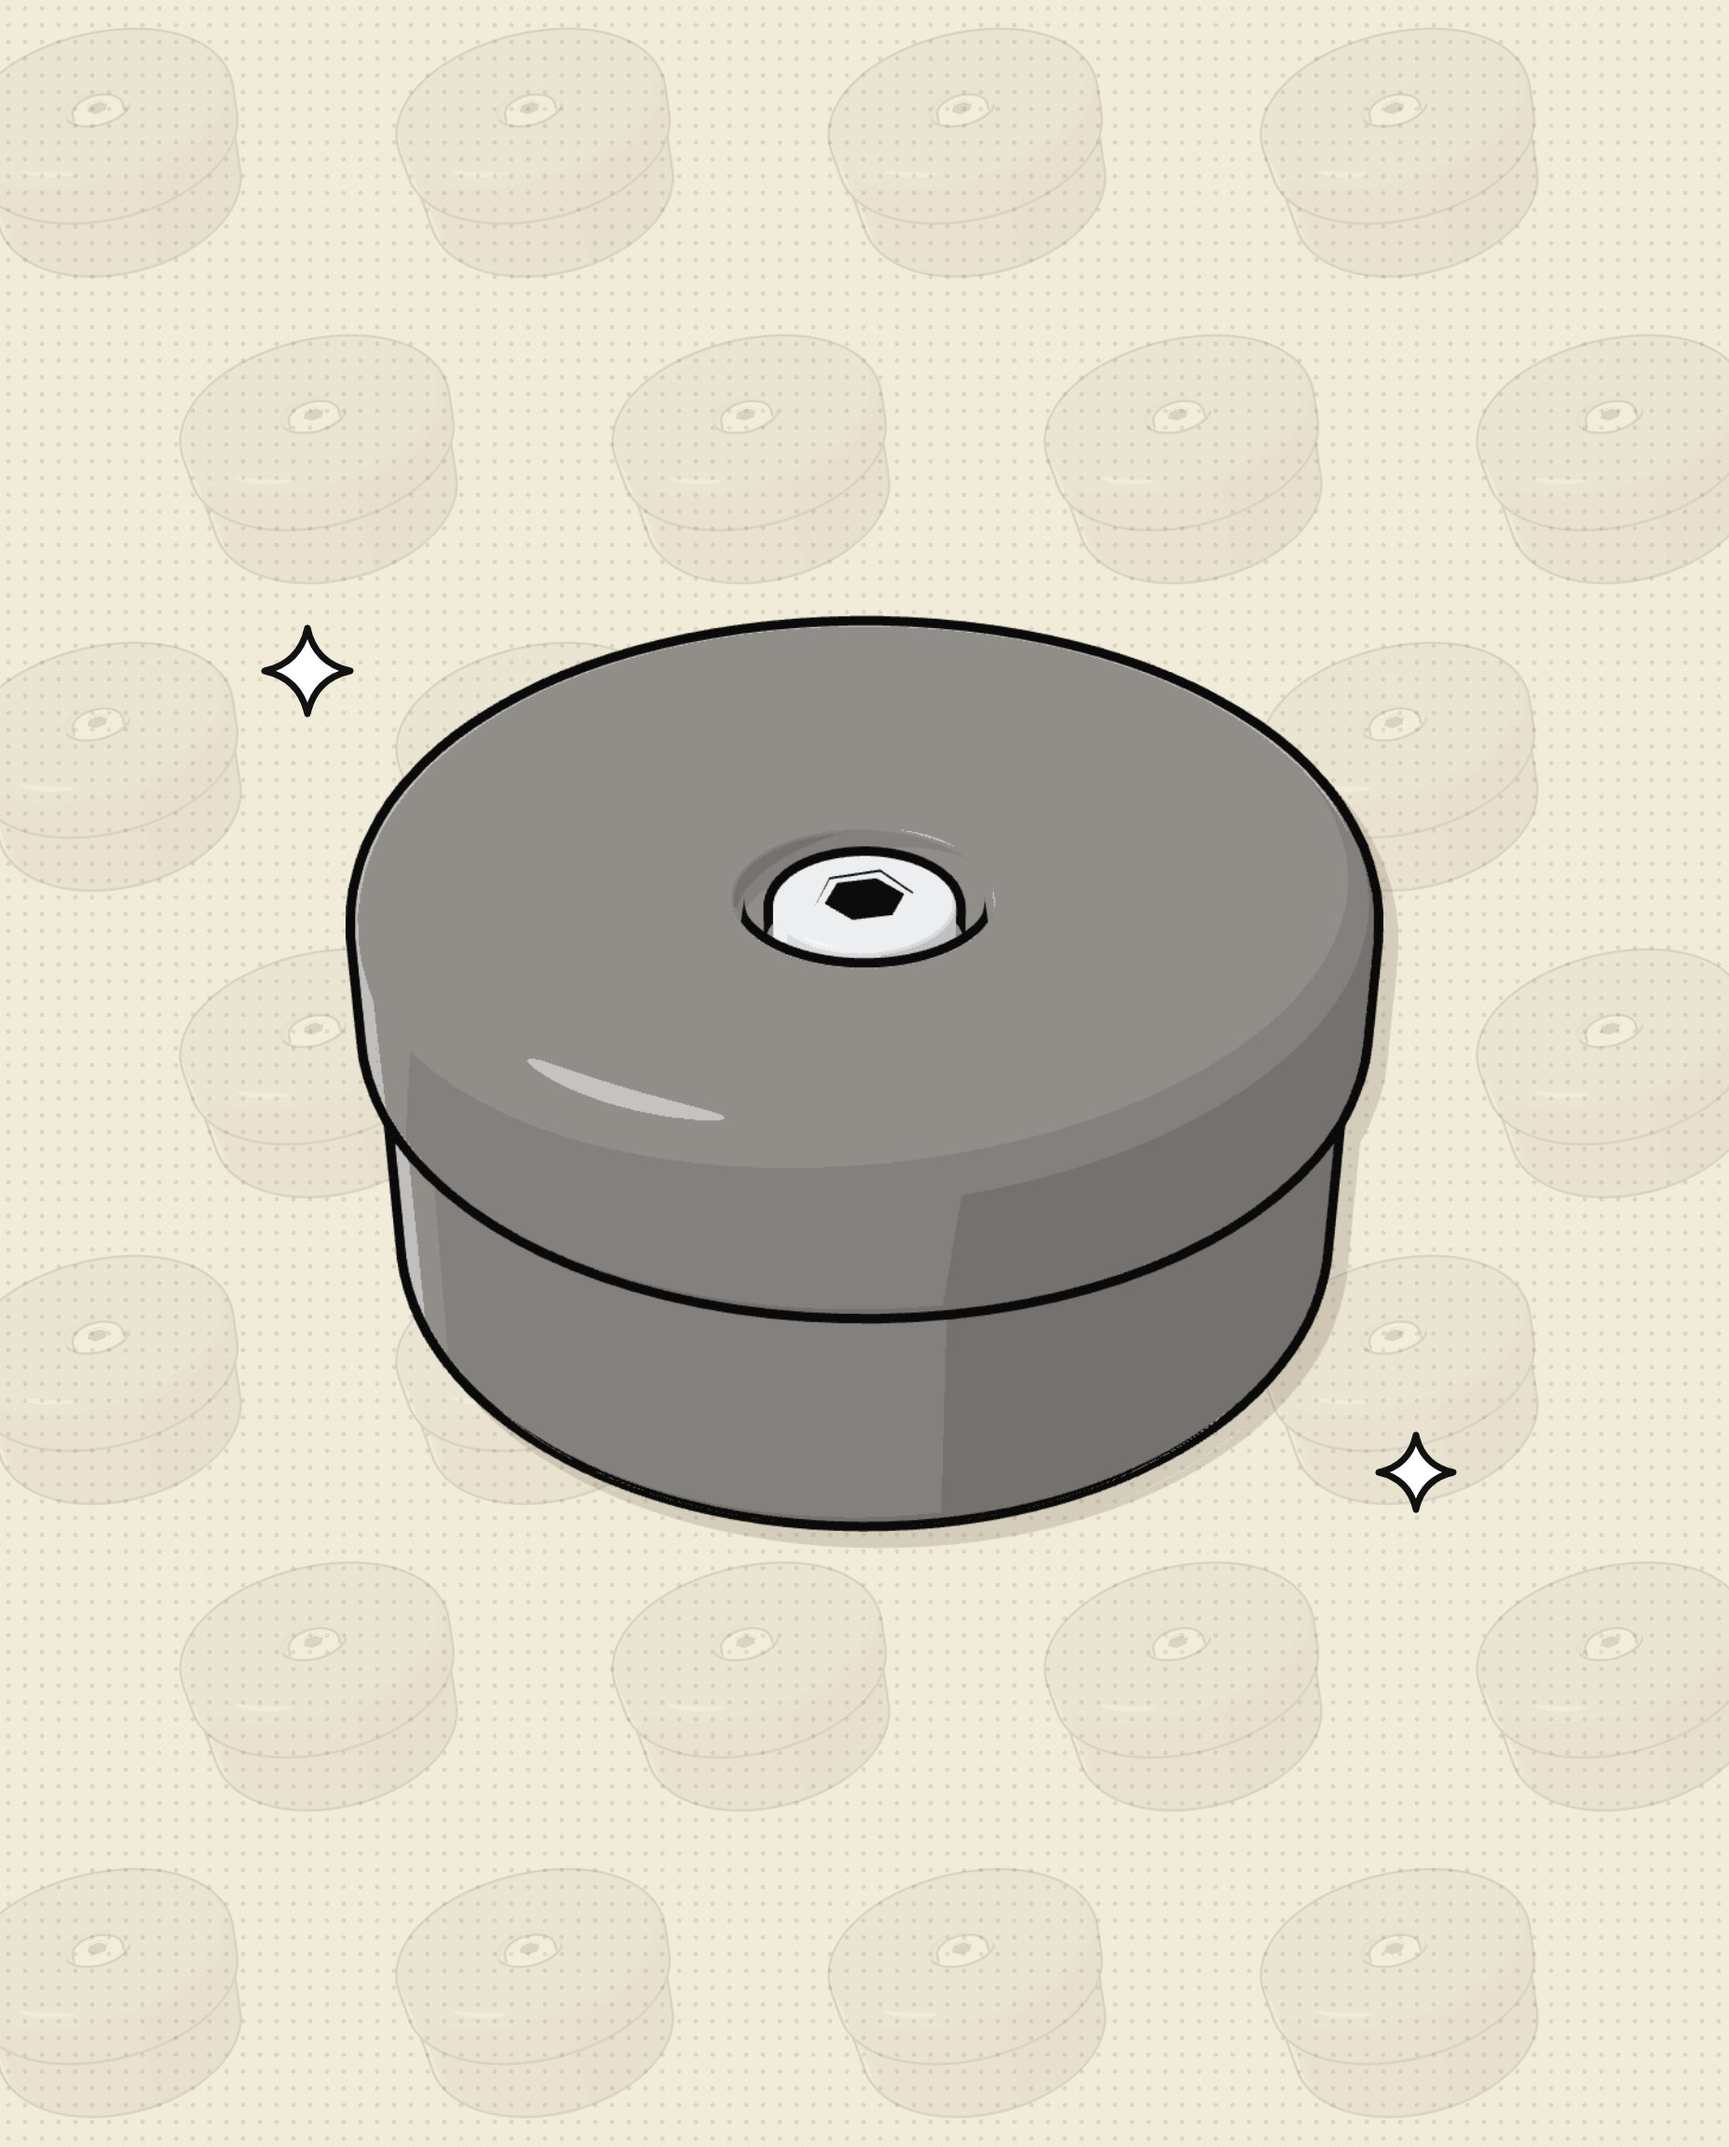
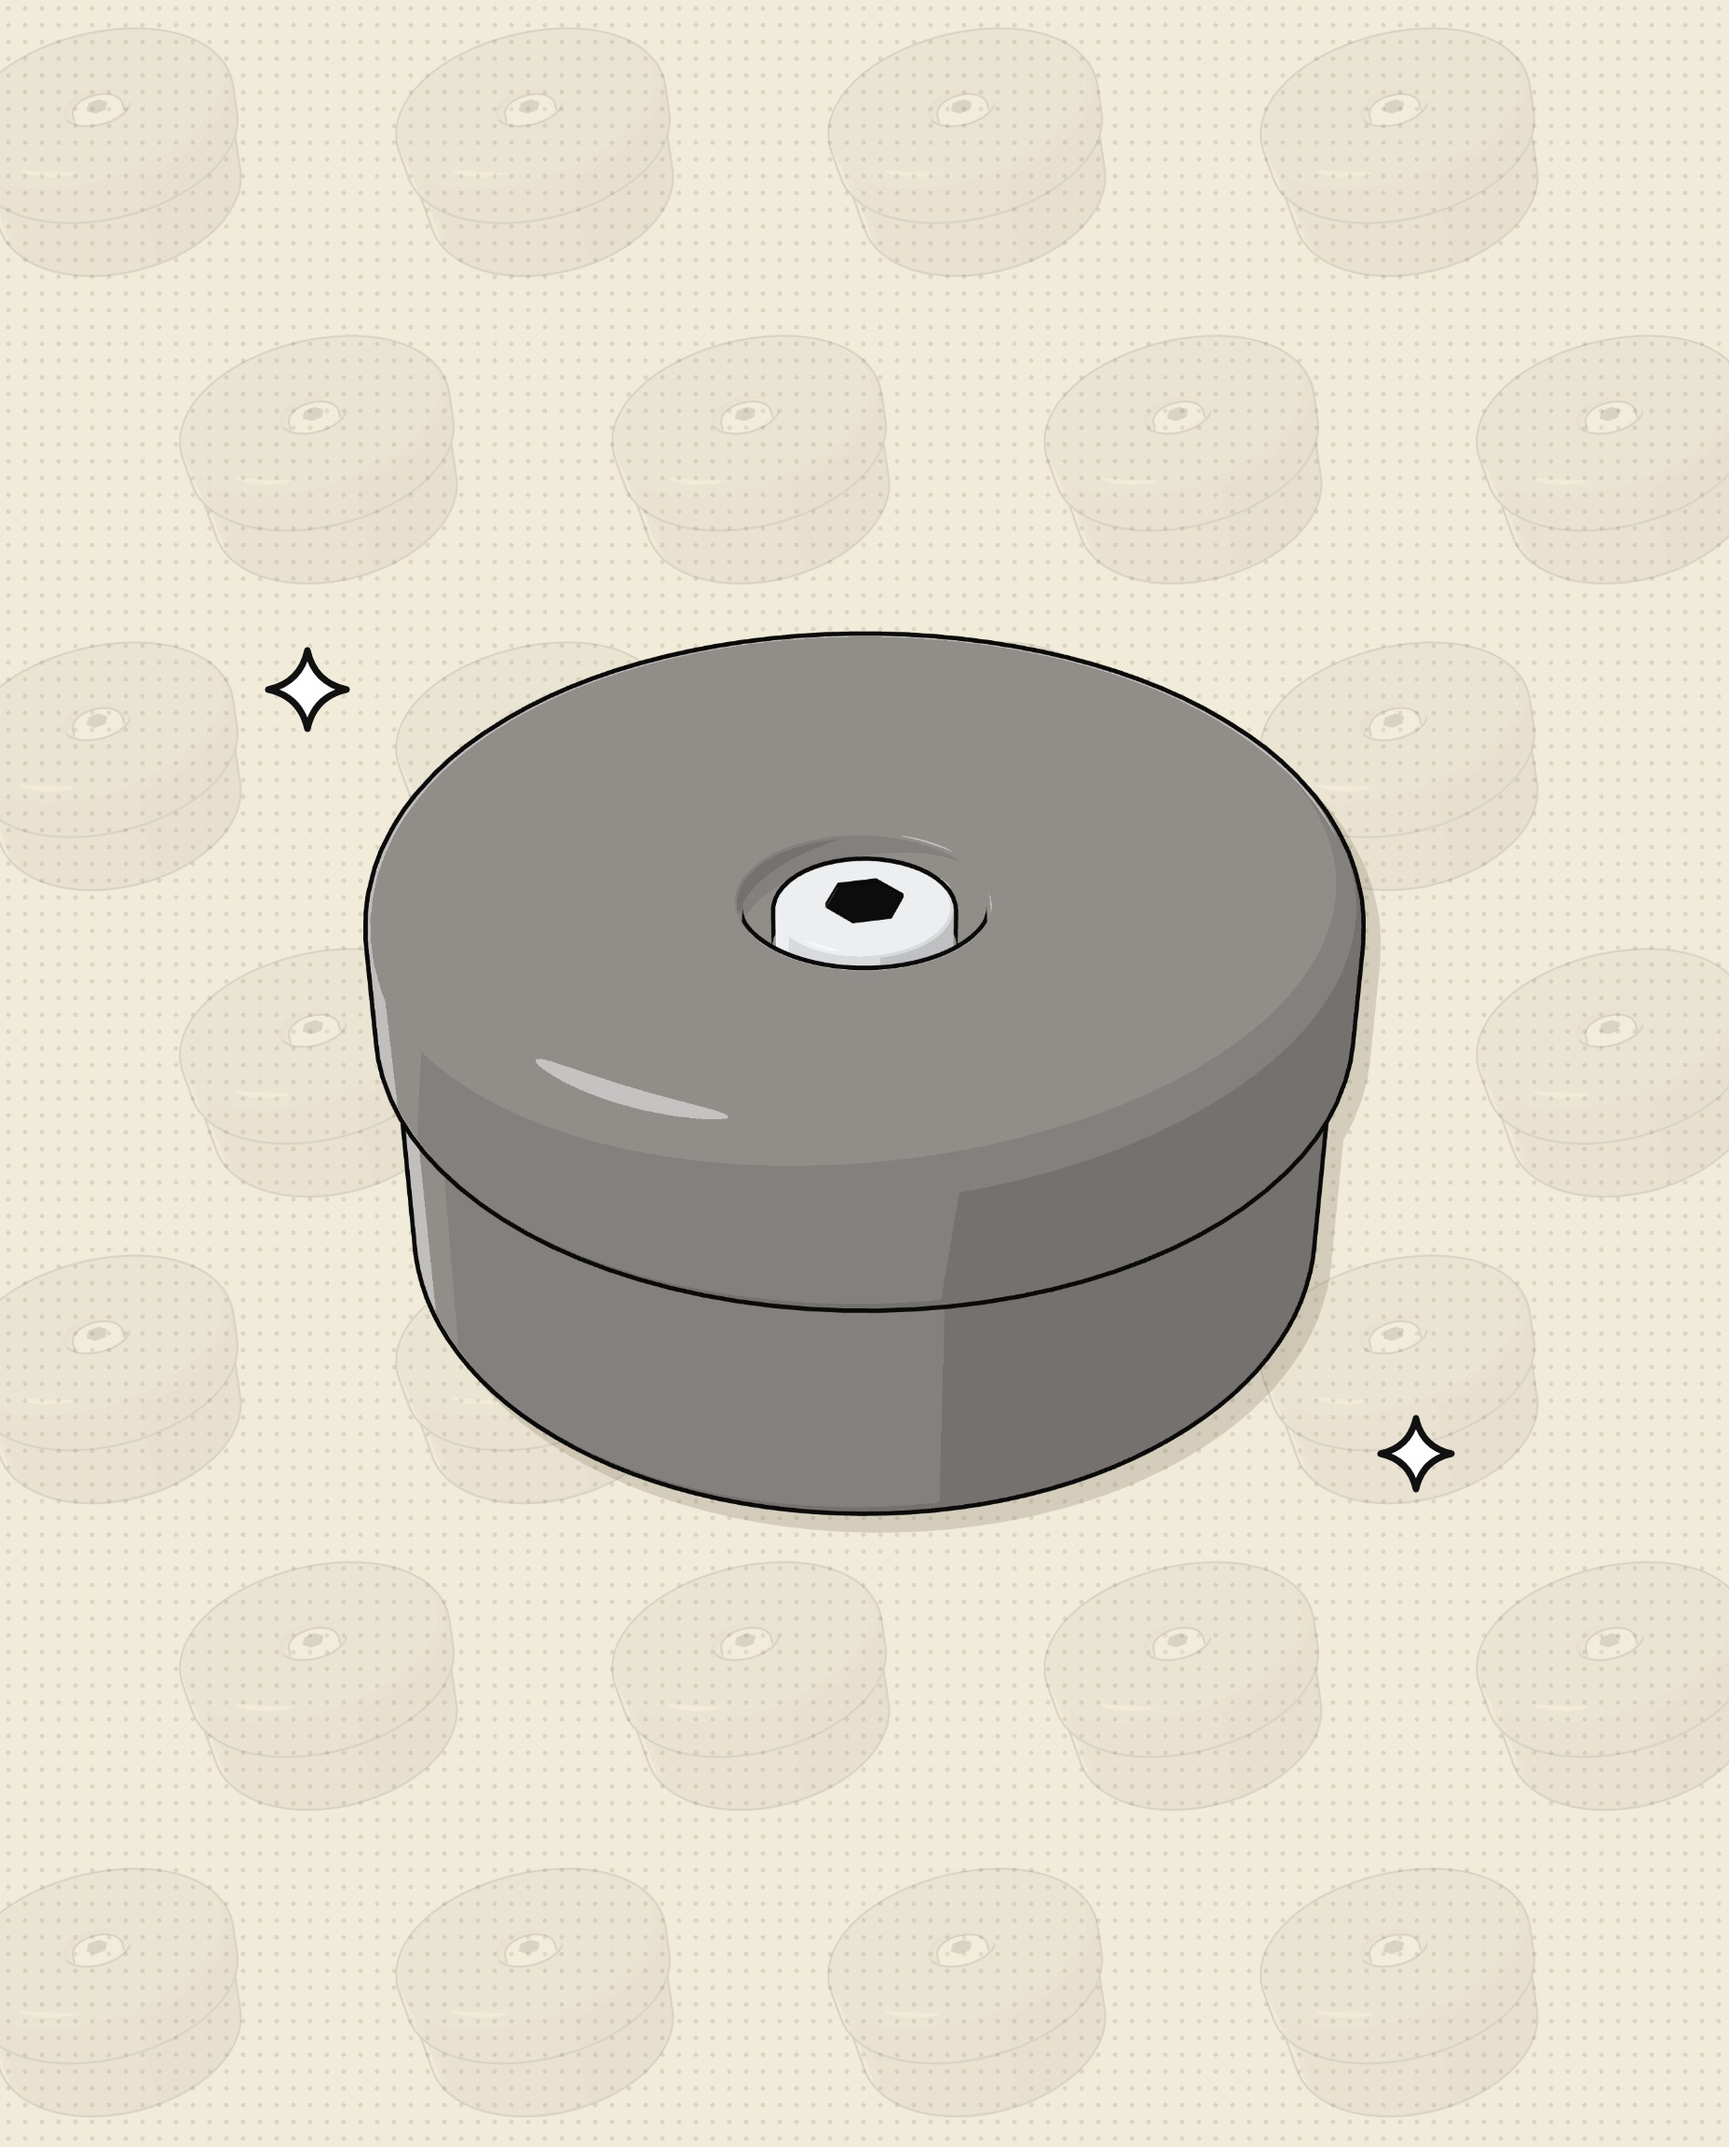
Make the cartoon images sharper, with no clipped or overlapping parts
- The parts are drawn at 3600 x 2700 px and made smaller, so the edges
  are smooth. The outline uses smooth normals, so it has no gaps, and
  each part gets a line weight that is about 4.5 px in the final image.
- The main parts do not overlap. In the home heroes they stay in the
  part of the image that a phone shows.
- The JPEGs are saved at quality 92, and the drawings use next/image
  quality 90 (the new quality prop of Photo, and images.qualities in
  next.config.ts). The photos keep the default quality 75.

diff --git a/components/Photo.tsx b/components/Photo.tsx
@@ -18,6 +18,8 @@ type Props = {
   // Show a pixel pattern while the photo loads, then sharpen the photo in steps. It works for "cover" only.
   pixelate?: boolean;
   className?: string;
+  // The quality of the optimised file. It must be in images.qualities in next.config.ts. The default is 75.
+  quality?: number;
 };
 
 // The number of pixel blocks across the photo at each step, and the time of one step.
@@ -47,7 +49,7 @@ function drawPixels(canvas: HTMLCanvasElement, img: HTMLImageElement, blocks: nu
 }
 
 // A photo from public/images (or a full address) that fills its box. The bone tile shows while the photo loads.
-export function Photo({ src, alt, fill = false, fit = "cover", sizes = "100vw", preload, pixelate = false, className }: Props) {
+export function Photo({ src, alt, fill = false, fit = "cover", sizes = "100vw", preload, pixelate = false, className, quality }: Props) {
   const animate = pixelate && fit === "cover";
   const [phase, setPhase] = useState<Phase>(animate ? "loading" : "done");
   const imgRef = useRef<HTMLImageElement>(null);
@@ -84,6 +86,7 @@ export function Photo({ src, alt, fill = false, fit = "cover", sizes = "100vw", 
         alt={alt}
         fill
         sizes={sizes}
+        quality={quality}
         preload={preload}
         onLoad={animate ? loaded : undefined}
       />

diff --git a/app/page.tsx b/app/page.tsx
@@ -38,7 +38,7 @@ export default async function HomePage() {
           <a key={c.name} className={cx(layout.stack, i < 2 && layout.ruleR)} href={`/shop#${c.name}`}>
             <div className={layout.ratio43}>
               {/* The category name is the link text, so the photo has no alt text. */}
-              <Photo src={c.image} alt="" sizes="(max-width: 767px) 100vw, 33vw" />
+              <Photo src={c.image} alt="" sizes="(max-width: 767px) 100vw, 33vw" quality={90} />
             </div>
             <div className={cx(layout.cell, layout.between)}>
               <span className="subheading">{c.name}</span>

diff --git a/next.config.ts b/next.config.ts
@@ -2,7 +2,8 @@ import type { NextConfig } from "next";
 
 const nextConfig: NextConfig = {
   // The shop images are hosted by Stripe (you upload them in the Stripe dashboard).
-  images: { remotePatterns: [{ protocol: "https", hostname: "files.stripe.com" }] },
+  // The cartoon drawings use quality 90, so their black lines stay sharp. The photos use the default 75.
+  images: { remotePatterns: [{ protocol: "https", hostname: "files.stripe.com" }], qualities: [75, 90] },
 };
 
 export default nextConfig;

diff --git a/components/HeroCarousel.tsx b/components/HeroCarousel.tsx
@@ -51,7 +51,7 @@ export function HeroCarousel() {
       {SLIDES.map((s, i) => (
         <div key={s.name} className={styles.slide} style={{ opacity: i === cur ? 1 : 0 }}>
           {/* The first slide shows at load, so load it first. */}
-          <Photo src={s.image} alt={s.alt} preload={i === 0} />
+          <Photo src={s.image} alt={s.alt} preload={i === 0} quality={90} />
         </div>
       ))}
       <div className={cx("meta-b", styles.kicker)}>

diff --git a/components/Bespoke.tsx b/components/Bespoke.tsx
@@ -193,7 +193,7 @@ export function Bespoke() {
               canvasRef={modelCanvas}
             />
           ) : (
-            <Photo src={bp.image} alt={`Bespoke ${bp.label.toLowerCase()}`} sizes="(max-width: 767px) 100vw, 50vw" fill />
+            <Photo src={bp.image} alt={`Bespoke ${bp.label.toLowerCase()}`} sizes="(max-width: 767px) 100vw, 50vw" quality={90} fill />
           )}
         </div>
 
